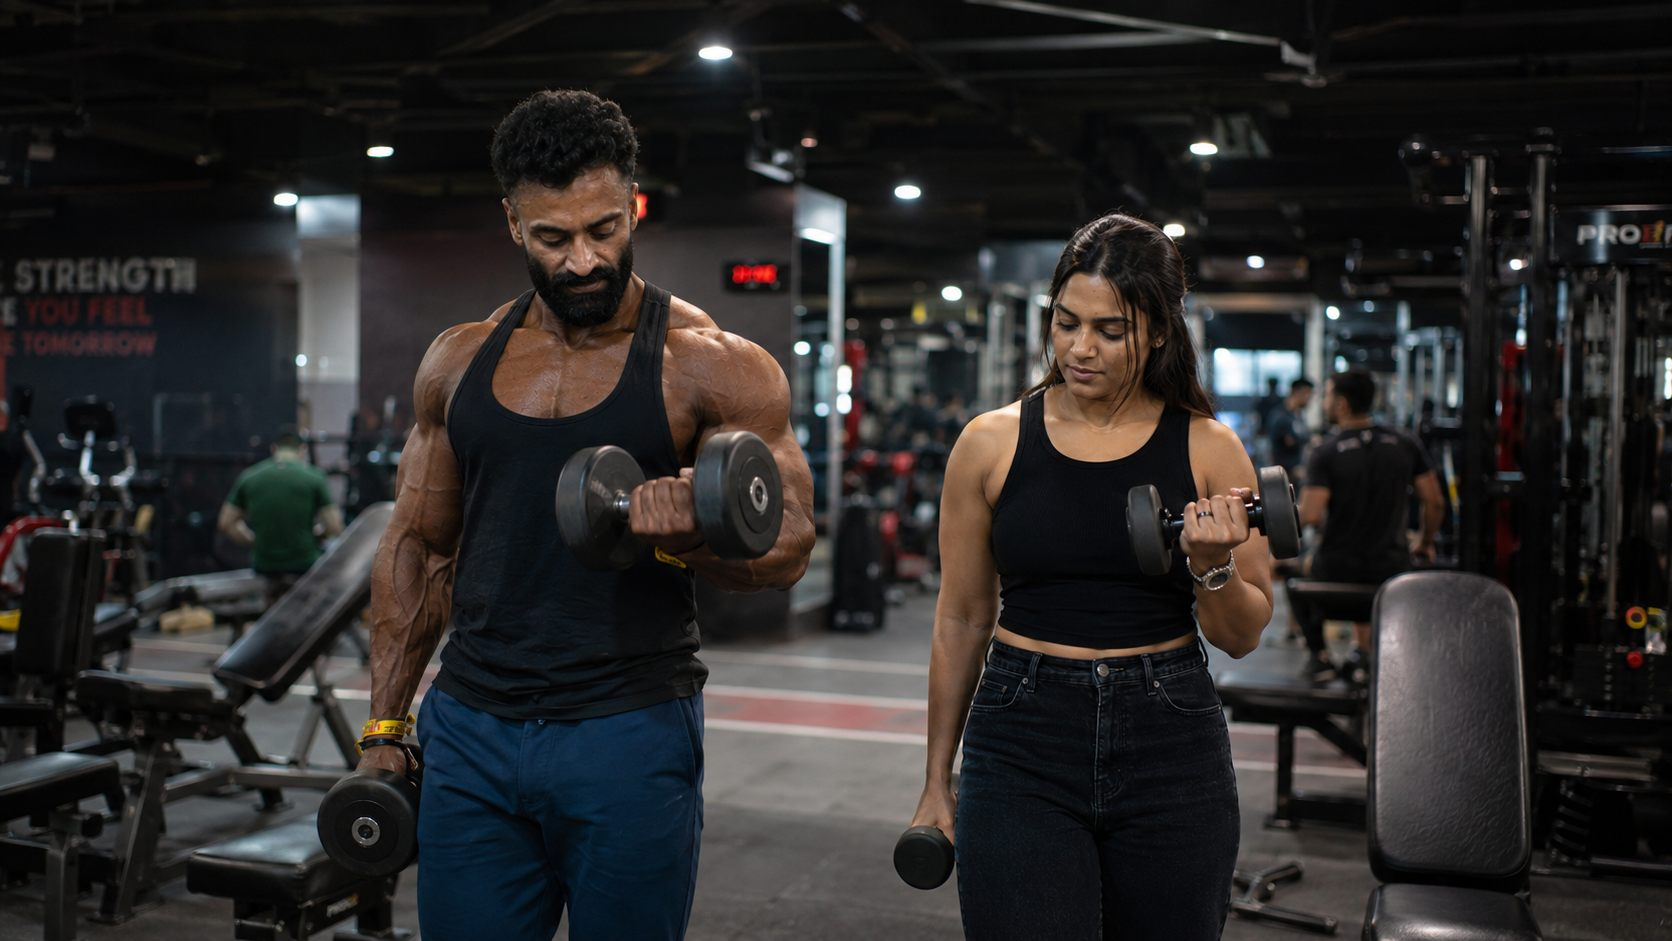
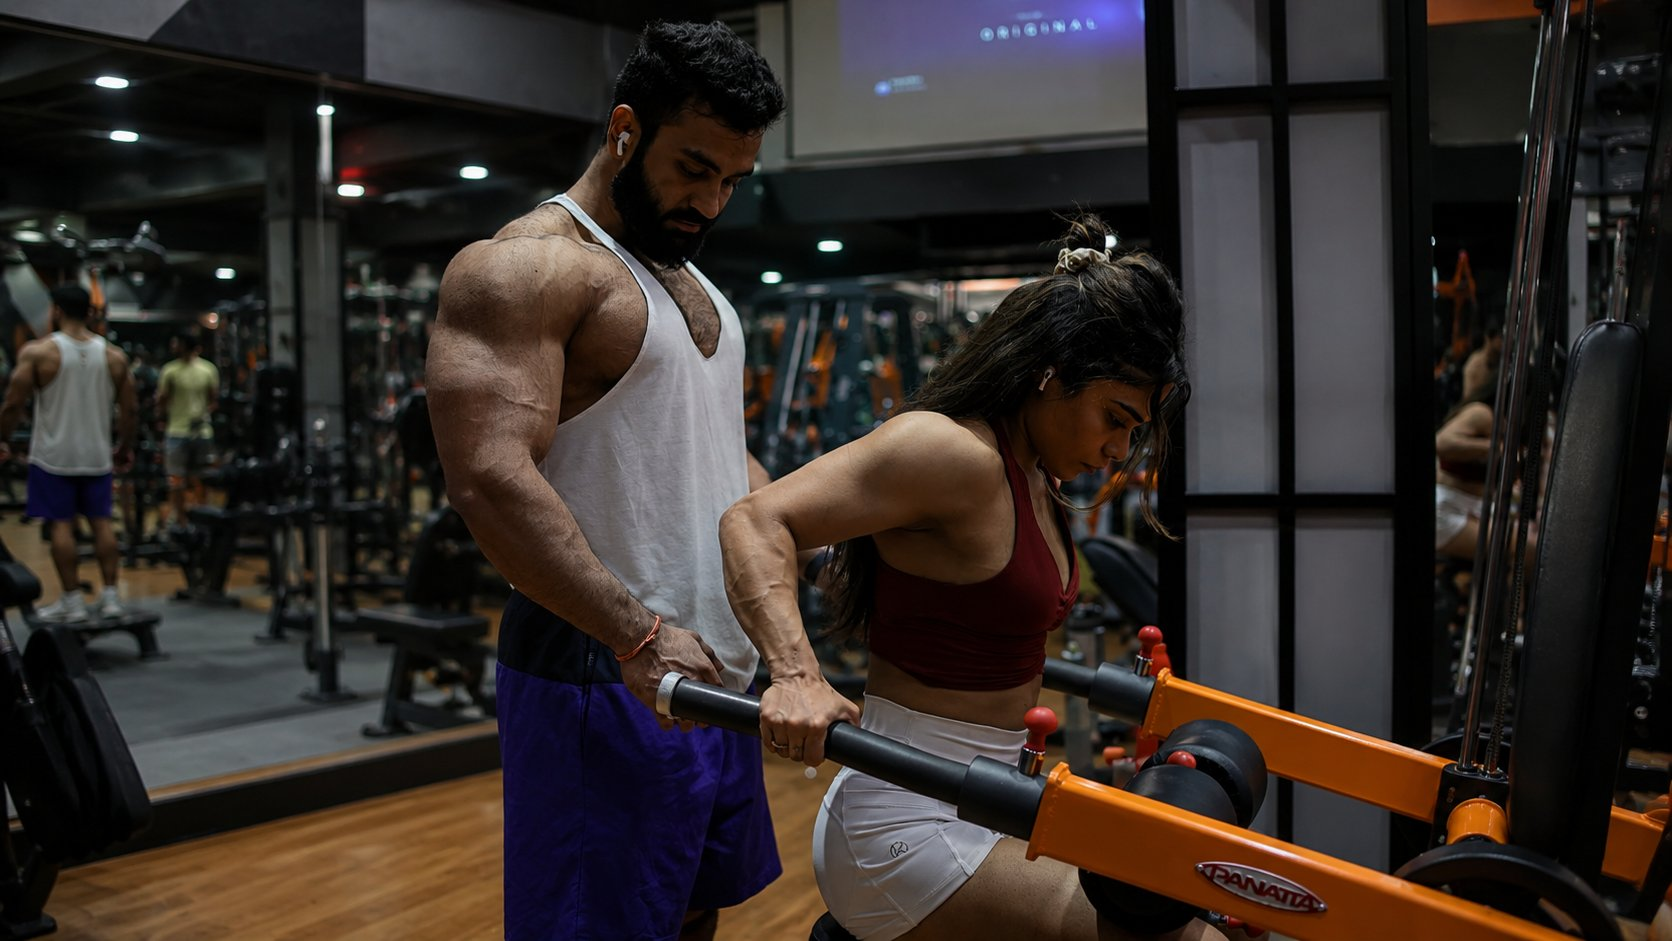
Replace all placeholder photos with real coach and client photos
Coaches: swap stock Unsplash headshots for Rutuja and Sundram's real
competition photos, with per-coach object-position tuning (and a
pre-crop for Sundram to remove a photographer's watermark).

Gallery: replace the 7 fabricated stock transformation photos with 9
real client before/afters, uploaded through the live admin API. Since
we don't have these clients' names or verified stats, captions are
left blank rather than fabricated -- admin gallery fields are now
optional (no required caption/service) with a soft confirm warning
before saving a photo with no label, instead of forcing fake data.

Hero: swap in a new hero background image.

Programs: equalize the 3 pricing card heights (previously intentionally
asymmetric to avoid an AI-template look; reverted per direct request).

diff --git a/src/data/photos.js b/src/data/photos.js
@@ -1,58 +1,11 @@
 export const photos = [
-  {
-    id: 10,
-    src: 'https://images.unsplash.com/photo-1517838277536-f5f99be501cd?q=75&w=500&auto=format&fit=crop',
-    category: 'lifestyle',
-    caption: 'Lost 8kg · 3 months',
-    service: 'Lifestyle Coaching',
-    detail: 'Built around real meals, not restriction.',
-  },
-  {
-    id: 11,
-    src: 'https://images.unsplash.com/photo-1574680096145-d05b474e2155?q=75&w=500&auto=format&fit=crop',
-    category: 'competition',
-    caption: 'Bikini Prep Transformation',
-    service: 'Contest Prep',
-    detail: '12 weeks of structured peak-week prep.',
-  },
-  {
-    id: 12,
-    src: 'https://images.unsplash.com/photo-1517836357463-d25dfeac3438?q=75&w=500&auto=format&fit=crop',
-    category: 'lifestyle',
-    caption: 'Body Recomposition · 6 months',
-    service: 'Lifestyle Coaching',
-    detail: 'Strength-first training with weekly check-ins.',
-  },
-  {
-    id: 13,
-    src: 'https://images.unsplash.com/photo-1581009146145-b5ef050c2e1e?q=75&w=500&auto=format&fit=crop',
-    category: 'lifestyle',
-    caption: 'Sustainable Fat Loss · 4 months',
-    service: 'Lifestyle Coaching',
-    detail: 'No fad diets — just consistency and tracking.',
-  },
-  {
-    id: 14,
-    src: 'https://images.unsplash.com/photo-1605296867304-46d5465a13f1?q=75&w=500&auto=format&fit=crop',
-    category: 'competition',
-    caption: 'Stage Ready',
-    service: 'Posing Coaching',
-    detail: 'Refined session by session, ready to walk out.',
-  },
-  {
-    id: 15,
-    src: 'https://images.unsplash.com/photo-1599058917212-d750089bc07e?q=75&w=500&auto=format&fit=crop',
-    category: 'competition',
-    caption: 'Off-Season to Stage · 8 months',
-    service: 'Contest Prep',
-    detail: 'From off-season bulk to peak-week conditioning.',
-  },
-  {
-    id: 16,
-    src: 'https://images.unsplash.com/photo-1526506118085-60ce8714f8c5?q=75&w=500&auto=format&fit=crop',
-    category: 'lifestyle',
-    caption: 'Reverse Diet Success · 5 months',
-    service: 'Lifestyle Coaching',
-    detail: 'Rebuilt metabolism through a guided reverse diet.',
-  },
+  { id: 1, src: '/images/gallery/client-1.jpg', caption: '', service: '', detail: '' },
+  { id: 2, src: '/images/gallery/client-2.jpg', caption: '', service: '', detail: '' },
+  { id: 3, src: '/images/gallery/client-3.jpg', caption: '', service: '', detail: '' },
+  { id: 4, src: '/images/gallery/client-4.jpg', caption: '', service: '', detail: '' },
+  { id: 5, src: '/images/gallery/client-5.jpg', caption: '', service: '', detail: '' },
+  { id: 6, src: '/images/gallery/client-6.jpg', caption: '', service: '', detail: '' },
+  { id: 7, src: '/images/gallery/client-7.jpg', caption: '', service: '', detail: '' },
+  { id: 8, src: '/images/gallery/client-8.jpg', caption: '', service: '', detail: '' },
+  { id: 9, src: '/images/gallery/client-9.jpg', caption: '', service: '', detail: '' },
 ]

diff --git a/src/components/ProgramsSection.jsx b/src/components/ProgramsSection.jsx
@@ -117,7 +117,7 @@ export default function ProgramsSection() {
           </h2>
         </div>
 
-        <div className="grid grid-cols-1 md:grid-cols-3" style={{ gap: '16px', alignItems: 'start' }}>
+        <div className="grid grid-cols-1 md:grid-cols-3" style={{ gap: '16px', alignItems: 'stretch' }}>
           <div style={{ background: '#0B0B0C', borderRadius: '8px', padding: '40px 32px', borderTop: '3px solid #F4C400', display: 'flex', flexDirection: 'column', gap: '16px', ...cardTransition }} {...cardHover(false)}>
             <span style={{ fontFamily: 'DM Sans, sans-serif', fontSize: '11px', letterSpacing: '3px', color: '#F4C400', textTransform: 'uppercase' }}>Most Popular</span>
             <h3 style={{ fontFamily: 'Oswald, sans-serif', fontWeight: 700, fontSize: '28px', color: '#FFF', textTransform: 'uppercase' }}>Lifestyle Coaching</h3>
@@ -132,7 +132,7 @@ export default function ProgramsSection() {
               ))}
             </ul>
             <PriceTable tiers={tiersFor('lifestyle')} dark />
-            <a href="#contact" style={{ ...btnBase, background: '#F4C400', color: '#0B0B0C', textDecoration: 'none', textAlign: 'center' }}>Book a Call</a>
+            <a href="#contact" style={{ ...btnBase, background: '#F4C400', color: '#0B0B0C', textDecoration: 'none', textAlign: 'center', marginTop: 'auto' }}>Book a Call</a>
           </div>
 
           <div style={{ background: '#F4C400', borderRadius: '8px', padding: '40px 32px', display: 'flex', flexDirection: 'column', gap: '16px', ...cardTransition }} {...cardHover(true)}>
@@ -149,7 +149,7 @@ export default function ProgramsSection() {
               ))}
             </ul>
             <PriceTable tiers={tiersFor('contest_prep')} />
-            <a href="#contact" style={{ ...btnBase, background: '#0B0B0C', color: '#F4C400', textDecoration: 'none', textAlign: 'center' }}>Book a Call</a>
+            <a href="#contact" style={{ ...btnBase, background: '#0B0B0C', color: '#F4C400', textDecoration: 'none', textAlign: 'center', marginTop: 'auto' }}>Book a Call</a>
           </div>
 
           <div style={{ background: '#FFFFFF', border: '1px solid rgba(0,0,0,0.08)', borderRadius: '8px', padding: '40px 32px', display: 'flex', flexDirection: 'column', gap: '16px', ...cardTransition }} {...cardHover(false)}>
@@ -159,7 +159,7 @@ export default function ProgramsSection() {
               Online posing sessions for any category — stage presence from an IFBB Pro.
             </p>
             <PriceTable tiers={tiersFor('posing')} />
-            <a href="#contact" style={{ ...btnBase, background: 'transparent', color: '#0B0B0C', border: '1.5px solid #0B0B0C', textDecoration: 'none', textAlign: 'center' }}>Book a Call</a>
+            <a href="#contact" style={{ ...btnBase, background: 'transparent', color: '#0B0B0C', border: '1.5px solid #0B0B0C', textDecoration: 'none', textAlign: 'center', marginTop: 'auto' }}>Book a Call</a>
           </div>
         </div>
       </div>

diff --git a/src/AdminPage.jsx b/src/AdminPage.jsx
@@ -218,6 +218,9 @@ function PhotoCard({ photo, onSave, onDelete }) {
   const dirty = caption !== photo.caption || service !== photo.service || detail !== photo.detail
 
   async function handleSave() {
+    if (!caption.trim() && !service.trim()) {
+      if (!confirm("You haven't added a caption or service tag — this photo will show with no label on your site. Save anyway?")) return
+    }
     setSaving(true)
     await onSave(photo.id, { caption, service, detail })
     setSaving(false)
@@ -387,11 +390,11 @@ export default function AdminPage() {
       const res = await fetch('/api/gallery', {
         method: 'POST',
         headers: { 'Content-Type': 'application/json' },
-        body: JSON.stringify({ image_data: dataUrl, caption: 'New transformation', service: 'Lifestyle Coaching', detail: '' }),
+        body: JSON.stringify({ image_data: dataUrl, caption: '', service: '', detail: '' }),
       })
       const created = await res.json()
       setPhotos((prev) => [...prev, created])
-      showToast('Photo added! Fill in the details below and hit Save.')
+      showToast('Photo added! Add a caption below if you\'d like — totally optional.')
     } catch {
       showToast("Couldn't upload that photo. Try a smaller file.", 'error')
     } finally {

diff --git a/src/data/coaches.js b/src/data/coaches.js
@@ -6,7 +6,8 @@ export const coaches = [
     tagline: "Because “get shredded” shouldn't mean losing yourself.",
     bio: "Rutuja is an IFBB Pro bikini competitor and the head coach at Team TransformRS, specializing in women's physique. She's competed at the professional level herself, so her coaching comes from experience, not just theory — sustainable fat loss, hormonal health, and contest-ready conditioning, built around real life instead of extreme restriction. Every plan she writes is designed to work with your body, not against it.",
     badges: ['IFBB Pro', 'Bikini Prep', "Women's Physique"],
-    img: 'https://images.unsplash.com/photo-1548690312-e3b507d8c110?q=75&w=500&auto=format&fit=crop',
+    img: '/images/rutuja.jpg',
+    imgPosition: 'center 12%',
   },
   {
     id: 21,
@@ -15,6 +16,7 @@ export const coaches = [
     tagline: 'Built on data, not guesswork — and it shows on stage.',
     bio: "Sundram is an IFBB Pro men's physique competitor and online coaching specialist at Team TransformRS. His coaching is built on evidence-based programming and body recomposition — helping clients build muscle and lose fat at the same time through structured training and precise nutrition, no crash diets required. He also works closely with competitors on posing, refining the small details that make the difference on stage.",
     badges: ['IFBB Pro', 'Online Coaching', 'Posing'],
-    img: 'https://images.unsplash.com/photo-1610312856669-2cee66b2949c?q=75&w=500&auto=format&fit=crop',
+    img: '/images/sundram.jpg',
+    imgPosition: 'center 15%',
   },
 ]

diff --git a/src/components/CoachesSection.jsx b/src/components/CoachesSection.jsx
@@ -63,7 +63,7 @@ function CoachRow({ coach, index, selected, onSelect }) {
           <img
             src={coach.img}
             alt={coach.name}
-            style={{ width: '100%', height: 'clamp(340px, 42vw, 500px)', objectFit: 'cover', display: 'block', transition: 'transform 500ms ease' }}
+            style={{ width: '100%', height: 'clamp(340px, 42vw, 500px)', objectFit: 'cover', objectPosition: coach.imgPosition || 'center', display: 'block', transition: 'transform 500ms ease' }}
           />
         </div>
         <div